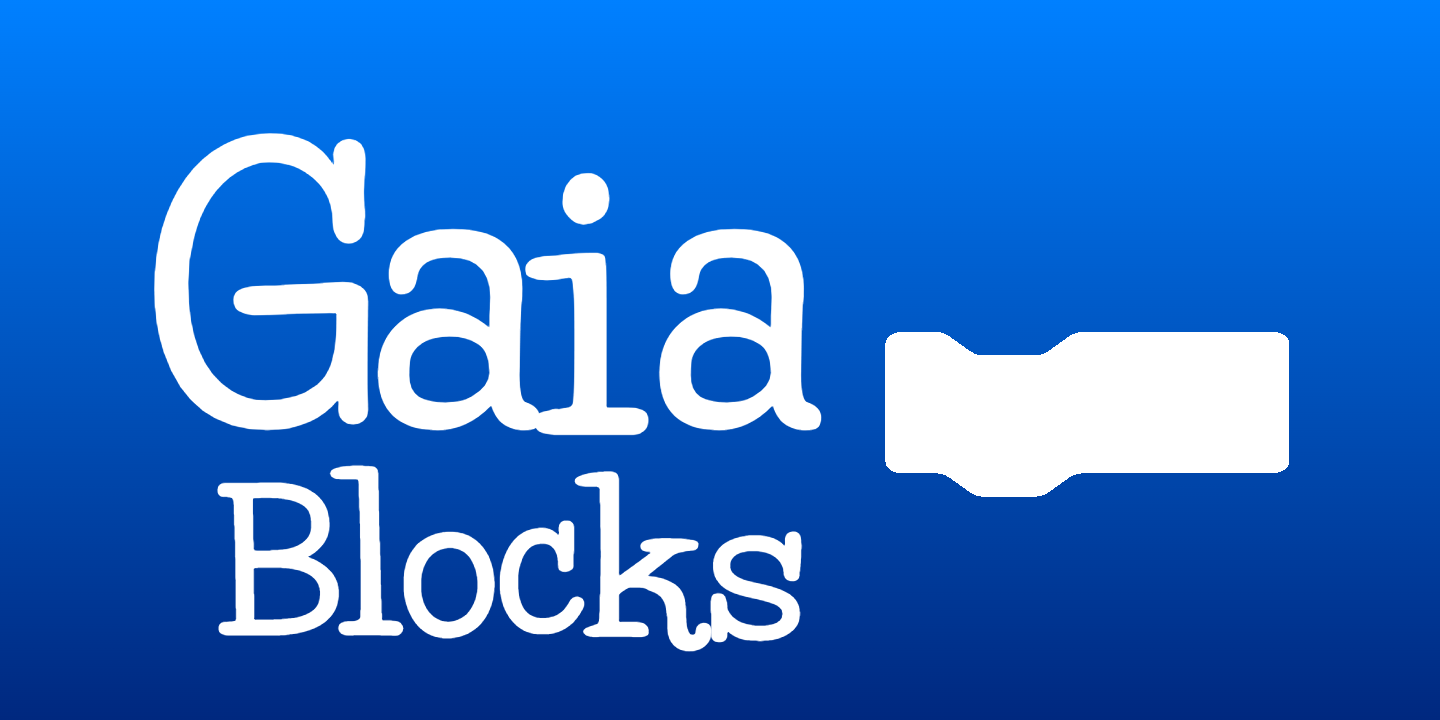
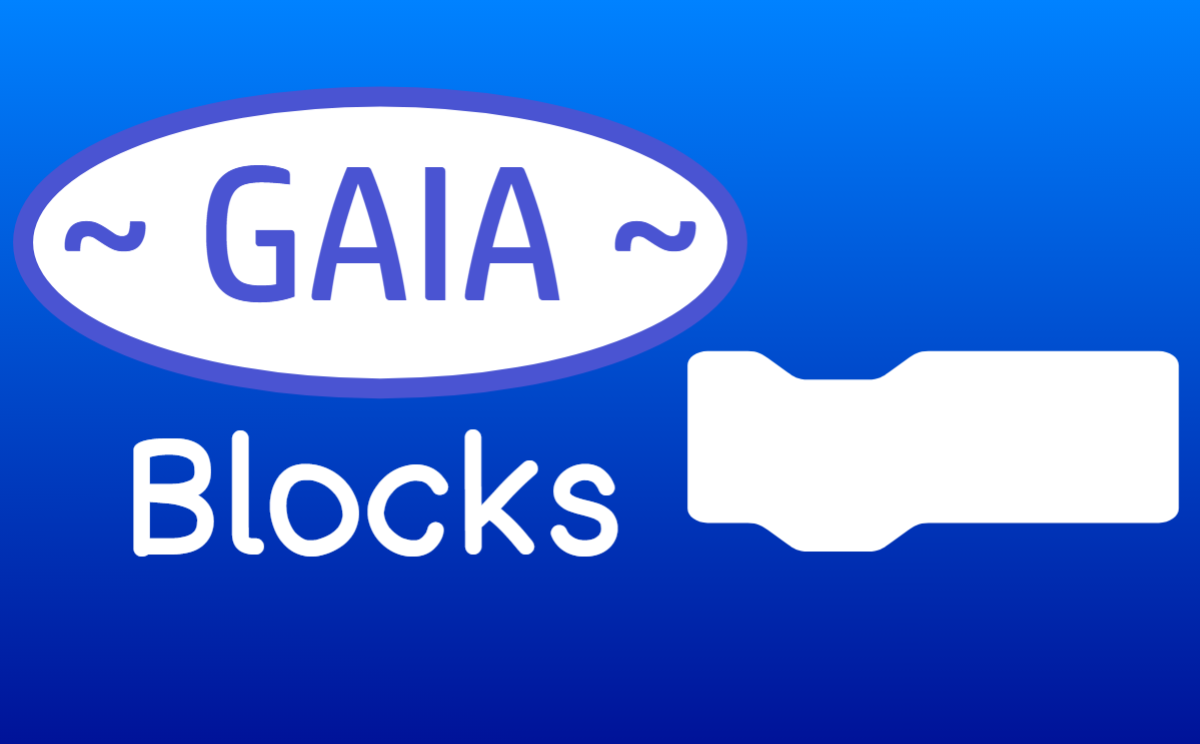
a

diff --git a/src/lib/libraries/extensions/index.jsx b/src/lib/libraries/extensions/index.jsx
@@ -253,7 +253,7 @@ import appMakerInsetIconURL from './librekitten/appmaker/software-small.svg';
 //gaiamod
 import gaiaGPTThumb from './gaiamod/GaiaGPT.png';
 import gaiaRuntimeThumb from './gaiamod/runtimeThumb.svg';
-import gaiaBlocksThumb from './gaiamod/gaiablocks.png';
+import gaiaBlocksThumb from './gaiamod/GaiaBlocks.png';
 import gaiaExGalleryThumb from './gaiamod/gallery.png';
 import sailormoonThumb from './gaiamod/lolsailormoon.png';
 import kittenbotThumb from './gaiamod/KittenBot.png';
@@ -271,6 +271,7 @@ import webcamThumb from './gaiamod/WebCamThumb.png';
 import chatNioThumb from './gaiamod/ChatNio.png';
 import mysteryThumb from './gaiamod/unknown.png';
 import mysteryInsetIcon from './gaiamod/unknown-small.png';
+import scratchUtilitiesIcon from './gaiamod/ScratchUtilities.png';
 
 import ampmodgalleryThumb from './gaiamod/AmpMod.svg';
 
@@ -413,7 +414,7 @@ const menuItems = [
     {
         name: 'Scratch Utitlites',
         extensionId: 'https://sharkpools-extensions.vercel.app/extension-code/Scratch-Utilities.js',
-        iconURL: 'https://sharkpools-extensions.vercel.app/extension-thumbs/Scratch-Utilities.svg',
+        iconURL: scratchUtilitiesIcon,
         credits: 'SharkPool',
         tags: ['penguinmod'],
         description: 'Do many things via the Scratch API; you can even fetch cloud data from projects!',
